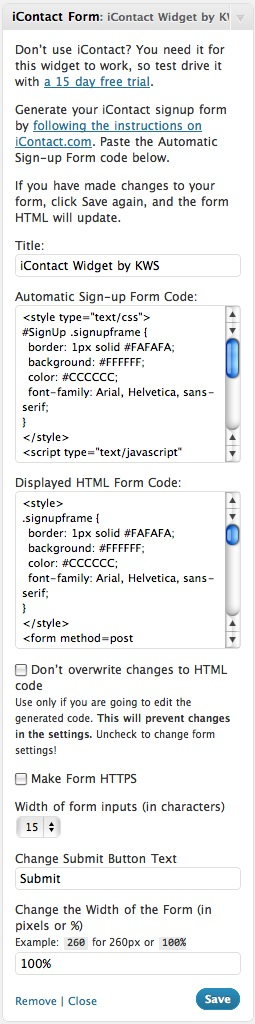
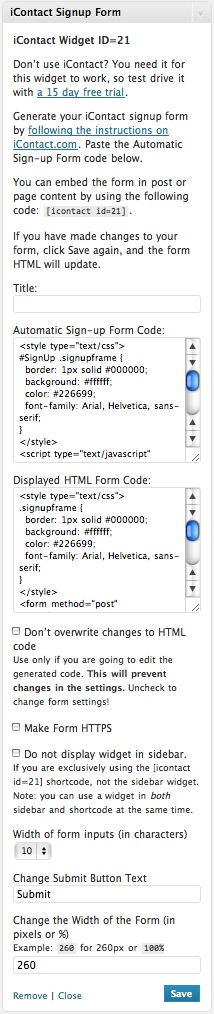
Version 1.0.5
git-svn-id: https://plugins.svn.wordpress.org/icontact-widget/trunk@150060 b8457f37-d9ea-0310-8a92-e5e31aec5664

diff --git a/icontact.php b/icontact.php
@@ -3,7 +3,7 @@
  * Plugin Name: iContact Widget
  * Plugin URI: http://www.seodenver.com/icontact-widget/
  * Description: Add the iContact signup form to your sidebar and easily update the display settings & convert the form from Javascript to faster-loading HTML.
- * Version: 1.0.4
+ * Version: 1.0.5
  * Author: Katz Web Design
  * Author URI: http://katzwebdesign.net
  *
@@ -21,10 +21,14 @@ Versions
 		- Added settings: Edit HTML capability, Change input width, Change Submit input text, Change form width
 1.0.3	- Added missing closing </form> tag
 1.0.4	- Added name=clientid formatting cleanup
-
+1.0.5	- Added better support for multiple widgets
+		- Improved validation by adding closing slashes to <input>s
+		- Fixed issue with multiple instances of same form preventing javascript validation
+		- Added option to not display form in sidebar, if only using the [icontact id=#] shortcode
+		- Fixed shortcode bug that had inserted form before content, instead of where inserted in content by using return instead of echo
 */
 
-$kwd_ic_version = '1.0.4';
+$kwd_ic_version = '1.0.5';
 
 add_action( 'widgets_init', 'kwd_load_widgets' );
 
@@ -41,79 +45,95 @@ class iContactWidget extends WP_Widget {
     }
  
  
-    function widget($args, $instance) {        
+    function widget($args, $instance) {      
         extract( $args );
-        $title = $instance['title'];
-        $formcode = $instance['formcode'];
-        $finalcode = $instance['generated_code'];
-        $link = '<a href="http://snurl.com/icontact_1" rel="nofollow" style="font-family: Arial, Helvetica, sans-serif; text-align:center; display:block; line-height:1; margin-top:.75em;"><font size="2">Email Marketing by iContact</font></a>';
-        // Please leave this in and give credit where credit is due.
-        $comment = '<!-- iContact Widget for WordPress by Katz Web Design -->';
-        if(!empty($finalcode) && strlen($finalcode) > 20) {
-	        $finalcode = str_ireplace($link, '', $finalcode);
-			$finalcode = str_ireplace($comment, '', $finalcode);
-	       	$attr = attr();
-			if(!empty($attr)) {
-				$finalcode .= $attr;
-			} else {
-				$finalcode .= $link;
-				$finalcode .= $comment;
-			} 
-        ?>
-              <?php echo $before_widget; ?>
-                  <?php echo $before_title . $title . $after_title; ?>
- 
-                      <?php echo "\n\t".$finalcode."\n\t"; ?>
- 
-              <?php echo $after_widget; ?>
-        <?php
-        } else {
-			echo '
-				<!--
-				//
-				// iCONTACT WIDGET 
-				//
-				There is an error with the iContact widget configuration on this website. 
-				//
-				//
-				//
-				-->';
-		}
+        if($instance['hide'] != 'yes') {
+        
+	        $finalcode = '';
+	        $title = $instance['title'];
+	        $formcode = $instance['formcode'];
+	        if($instance['override'] == 'yes') {
+	        	$finalcode = $instance['edited_code'];
+	        } else {
+	        	$finalcode = $instance['generated_code'];
+	        }
+	        
+	        // This way, if there is more than one of the same form, they each have an unique ID
+	        $altnumber = rand(0, 1000000);
+	       	$finalcode = str_ireplace('icpsignup', 'icpsignup'.$altnumber, $finalcode);
+	       	
+	        $link = '<a href="http://snurl.com/icontact_1" rel="nofollow" style="font-family: Arial, Helvetica, sans-serif; text-align:center; display:block; line-height:1; margin-top:.75em;"><font size="2">Email Marketing by iContact</font></a>';
+	        // Please leave this in and give credit where credit is due.
+	        $comment = '<!-- iContact Widget for WordPress by Katz Web Design -->';
+	        if(!empty($finalcode) && strlen($finalcode) > 20) {
+		        $finalcode = str_ireplace($link, '', $finalcode);
+				$finalcode = str_ireplace($comment, '', $finalcode);
+		       	$attr = attr();
+				if(!empty($attr)) { $finalcode .= $attr.$comment; } else { $finalcode .= $link.$comment; } 
+	        ?>
+	              <?php echo $before_widget; ?>
+	                  <?php echo $before_title . $title . $after_title; ?>
+	 
+	                      <?php echo "\n\t".$finalcode."\n\t"; ?>
+	 
+	              <?php echo $after_widget; ?>
+	        <?php
+	        // If there is no finalcode generated
+	        } else {
+				echo '
+					<!--
+					//
+					// iCONTACT WIDGET 
+					//
+					There is an error with the iContact widget configuration on this website. 
+					//
+					//
+					//
+					-->';
+			}
+		} // end if hide
     }
  
-    function update($new_instance, $old_instance) { 
+    function update($new_instance, $old_instance) {
     	$instance = $old_instance;
 		$instance['title'] = strip_tags( $new_instance['title'] );
+		
 		$instance['formcode'] = $new_instance['formcode'];
-		$instance['generated_code'] = $new_instance['generated_code'];
+		if($instance['initiated'] != true || $instance['override'] != 'yes') {
+			$instance['generated_code'] =  kwd_process_form($instance['formcode'], $instance['https'], $instance['submittext'], $instance['inputsize'], $instance['tablewidth'], $this->number);
+		}
+		//$instance['generated_code'] = $new_instance['generated_code'];
 		$instance['edited_code'] = $new_instance['generated_code'];
 		$instance['https'] = $new_instance['https'];
 		$instance['inputsize'] = $new_instance['inputsize'];
 		$instance['override'] = $new_instance['override'];
 		$instance['submittext'] = $new_instance['submittext'];
 		$instance['tablewidth'] = $new_instance['tablewidth'];
+		$instance['hide'] = $new_instance['hide'];
 		$instance['initiated'] = true;
         return $instance;
     }
  
-    function form($instance) {              
+    function form($instance) {
         $title = esc_attr($instance['title']);
         $formcode = $instance['formcode'];
         $inputsize = $instance['inputsize'];
+        if(is_int($this->number) || !$this->number) { $number = $this->number; echo '<p><strong>iContact Widget ID='.$number.'</strong></p>'; } else { $number = '#';}
         if(isset($instance['initiated'])) { $initiated = true; } else { $initiated=false;}
         if($instance['override'] != 'yes') {
-        	$finalcode = kwd_process_form($instance['formcode'], $instance['https'], $instance['submittext'], $instance['inputsize'], $instance['tablewidth']);
+        	$finalcode = kwd_process_form($instance['formcode'], $instance['https'], $instance['submittext'], $instance['inputsize'], $instance['tablewidth'], $number);
         } else {
         	$finalcode = $instance['edited_code'];
         }
         $error = '';
         if(!$finalcode && $initiated) {
-        	$error = '<div style="border:1px solid red; margin:10px 0; background:white; padding:5px;"><p><strong>There was an error processing the form code</strong> you entered into the "Automatic Sign-up Form Code" field.</p> <p>Please make sure you\'re pasting the <a href="http://www.icontact.com/help/question.php?ID=149" rel="nofollow">iContact-generated Automatic Sign-up Form code</a>, and try again.</p><p>If you still are having problems, please <a href="http://www.seodenver.com/icontact-widget/">leave a comment on the widget page</a>.</div>';
+        	$error = '<div style="border:1px solid red; margin:10px 0; background:white; padding:5px;"><p><strong>There was an error processing the form code</strong> you entered into the "Automatic Sign-up Form Code" field.</p> <p>Please make sure you\'re pasting the <a href="http://www.icontact.com/help/question.php?ID=149" rel="nofollow">iContact-generated Automatic Sign-up Form code</a>, and try again.</p><p>If you still are having problems, please <a href="http://www.seodenver.com/icontact-widget/">leave a comment on the widget page</a>.</p></div>';
         }
         
         ?>
         	<p>Don&#8217;t use iContact? You need it for this widget to work, so test drive it with <a href="http://snurl.com/icontact_1">a 15 day free trial</a>.</p>
         	<p>Generate your iContact signup form by <a href="http://www.icontact.com/help/question.php?ID=149" rel="nofollow">following the instructions on iContact.com</a>. Paste the Automatic Sign-up Form code below.</p>
+        	<p>You can embed the form in post or page content by using the following code: <code>[icontact id=<?php echo $number; ?>]</code>. <?php if($number == '#') { ?><small>(The ID will show once the widget is saved for the first time.)</small><?php } ?></p>
         	<p>If you have made changes to your form, click Save again, and the form HTML will update.</p>
             <p><label for="<?php echo $this->get_field_id('title'); ?>"><?php _e('Title:'); ?> <input class="widefat" id="<?php echo $this->get_field_id('title'); ?>" name="<?php echo $this->get_field_name('title'); ?>" type="text" value="<?php echo $title; ?>" /></label></p>
             <?php echo $error; ?>
@@ -124,6 +144,9 @@ class iContactWidget extends WP_Widget {
             <?php  } ?>
             <?php kwd_make_checkbox($instance['override'], $this->get_field_id('override'),$this->get_field_name('override'), 'Don&#8217;t overwrite changes to HTML code<br /><small>Use only if you are going to edit the generated code. <strong>This will prevent changes in the settings.</strong> Uncheck to change form settings!</small>'); ?>
              <?php kwd_make_checkbox($instance['https'], $this->get_field_id('https'),$this->get_field_name('https'), 'Make Form HTTPS'); ?>
+             
+             <?php kwd_make_checkbox($instance['hide'], $this->get_field_id('hide'),$this->get_field_name('hide'), 'Do not display widget in sidebar.<br /><small>If you are exclusively using the [icontact id='.$number.'] shortcode, not the sidebar widget. Note: you can use a widget in <em>both</em> sidebar and shortcode at the same time.</small>'); ?>
+             
         <p>
 		<label for="<?php echo $this->get_field_id('inputsize'); ?>">Width of form inputs (in characters)</label>
 		<select id="<?php echo $this->get_field_id('inputsize'); ?>" name="<?php echo $this->get_field_name('inputsize'); ?>">
@@ -160,7 +183,6 @@ class iContactWidget extends WP_Widget {
 			  <option value="40"<?php if($inputsize == 40) { echo ' selected="selected"'; }?>>40</option>
 		  </select>
 		</p>
-            
             <?php kwd_make_textfield($initiated, true, 'Submit', $instance['submittext'], $this->get_field_id('submittext'),$this->get_field_name('submittext'), 'Change Submit Button Text'); ?>
             <?php kwd_make_textfield($initiated, true, '260', $instance['tablewidth'], $this->get_field_id('tablewidth'),$this->get_field_name('tablewidth'), 'Change the Width of the Form (in pixels or %)<br /><small>Example: <code>260</code> for 260px or <code>100%</code></small>'); ?>
             
@@ -193,15 +215,25 @@ function kwd_make_checkbox($setting = '', $fieldid = '', $fieldname='', $title =
     echo $checkbox;
 }	
 
-function kwd_ic_shortcode() {
-		global $post;
-		if(!is_admin()) { $settings = get_option('widget_icontactwidget');  echo $settings[3]['generated_code'];} // get sidebar settings, echo finalcode
+function kwd_ic_shortcode($atts) {
+	global $post; // prevent before content
+		$atts = extract(shortcode_atts(array('id' => '1'), $atts)); 
+		if(!$id) { $id = 3;}
+		if(!is_admin()) { 
+			$settings = get_option('widget_icontactwidget');
+			if($settings[$id]['override'] == 'yes') {
+	        	$finalcode = $settings[$id]['edited_code'];
+	        } else {
+	        	$finalcode = $settings[$id]['generated_code'];
+	        }
+			return $finalcode;
+		} // get sidebar settings, echo finalcode
 }
 add_shortcode('iContact', 'kwd_ic_shortcode');
 add_shortcode('icontact', 'kwd_ic_shortcode');
 	
 
-function kwd_process_form($src, $https = false, $submit = 'Submit', $inputsize = '', $width = '260') {
+function kwd_process_form($src, $https = false, $submit = 'Submit', $inputsize = '', $width = '260', $number = 1) {
 	
 	if(empty($submit)) { $submit = 'Submit';}
 
@@ -233,6 +265,8 @@ function kwd_process_form($src, $https = false, $submit = 'Submit', $inputsize =
 	$code = str_ireplace('font>', 'font>', $code);
 	$code = str_ireplace('<\/', '</', $code);
 	$code = str_ireplace('\n', "\n", $code);
+	$code = str_ireplace('if (document.location.protocol === "https:")', '', $code);
+	$code = str_ireplace('document.icpsignup.action = "https://app.icontact.com/icp/signup.php";', '', $code);
 	
 	// Fix XHTML issues
 	$code = str_ireplace('type=text', 'type="text"', $code);
@@ -246,7 +280,19 @@ function kwd_process_form($src, $https = false, $submit = 'Submit', $inputsize =
 	$code = str_ireplace('align=right', 'align="right"', $code);
 	$code = str_ireplace('align=left', 'align="left"', $code);
 	$code = str_ireplace('method=post', 'method="post"', $code);
+	$code = str_ireplace('method="post"', 'method="post" class="iContactForm"', $code);
 	$code = str_ireplace('name=clientid', 'name="clientid"', $code);
+	$code = str_ireplace('</tr><td', '</tr><tr><td', $code);
+	$code = str_ireplace('<style>', '<style type="text/css">', $code);
+	$code = str_ireplace('<input type="hidden" name="redirect"', '<div><input type="hidden" name="redirect"', $code);
+	$code = str_ireplace('<script type="text/javascript">', '</div><script type="text/javascript">', $code);
+	$code = preg_replace('/<input([^<]+?[^\/])>/i', '<input$1 />', $code); // Add trailing slashes to inputs
+	$code = str_ireplace('<div id="SignUp">', '<div class="SignUp">', $code); // for multiple instances
+	
+	// Add numbering
+	$code = str_ireplace('name="icpsignup"', 'name="icpsignup'.$number.'"', $code);
+	$code = str_ireplace('verifyRequired()', 'verifyRequired'.$number.'()', $code);
+	$code = str_ireplace('document.icpsignup', 'document.icpsignup'.$number, $code);
 	
 	// Enter custom values
 	$code = str_ireplace('value="Submit"', 'value="'.$submit.'"', $code);
